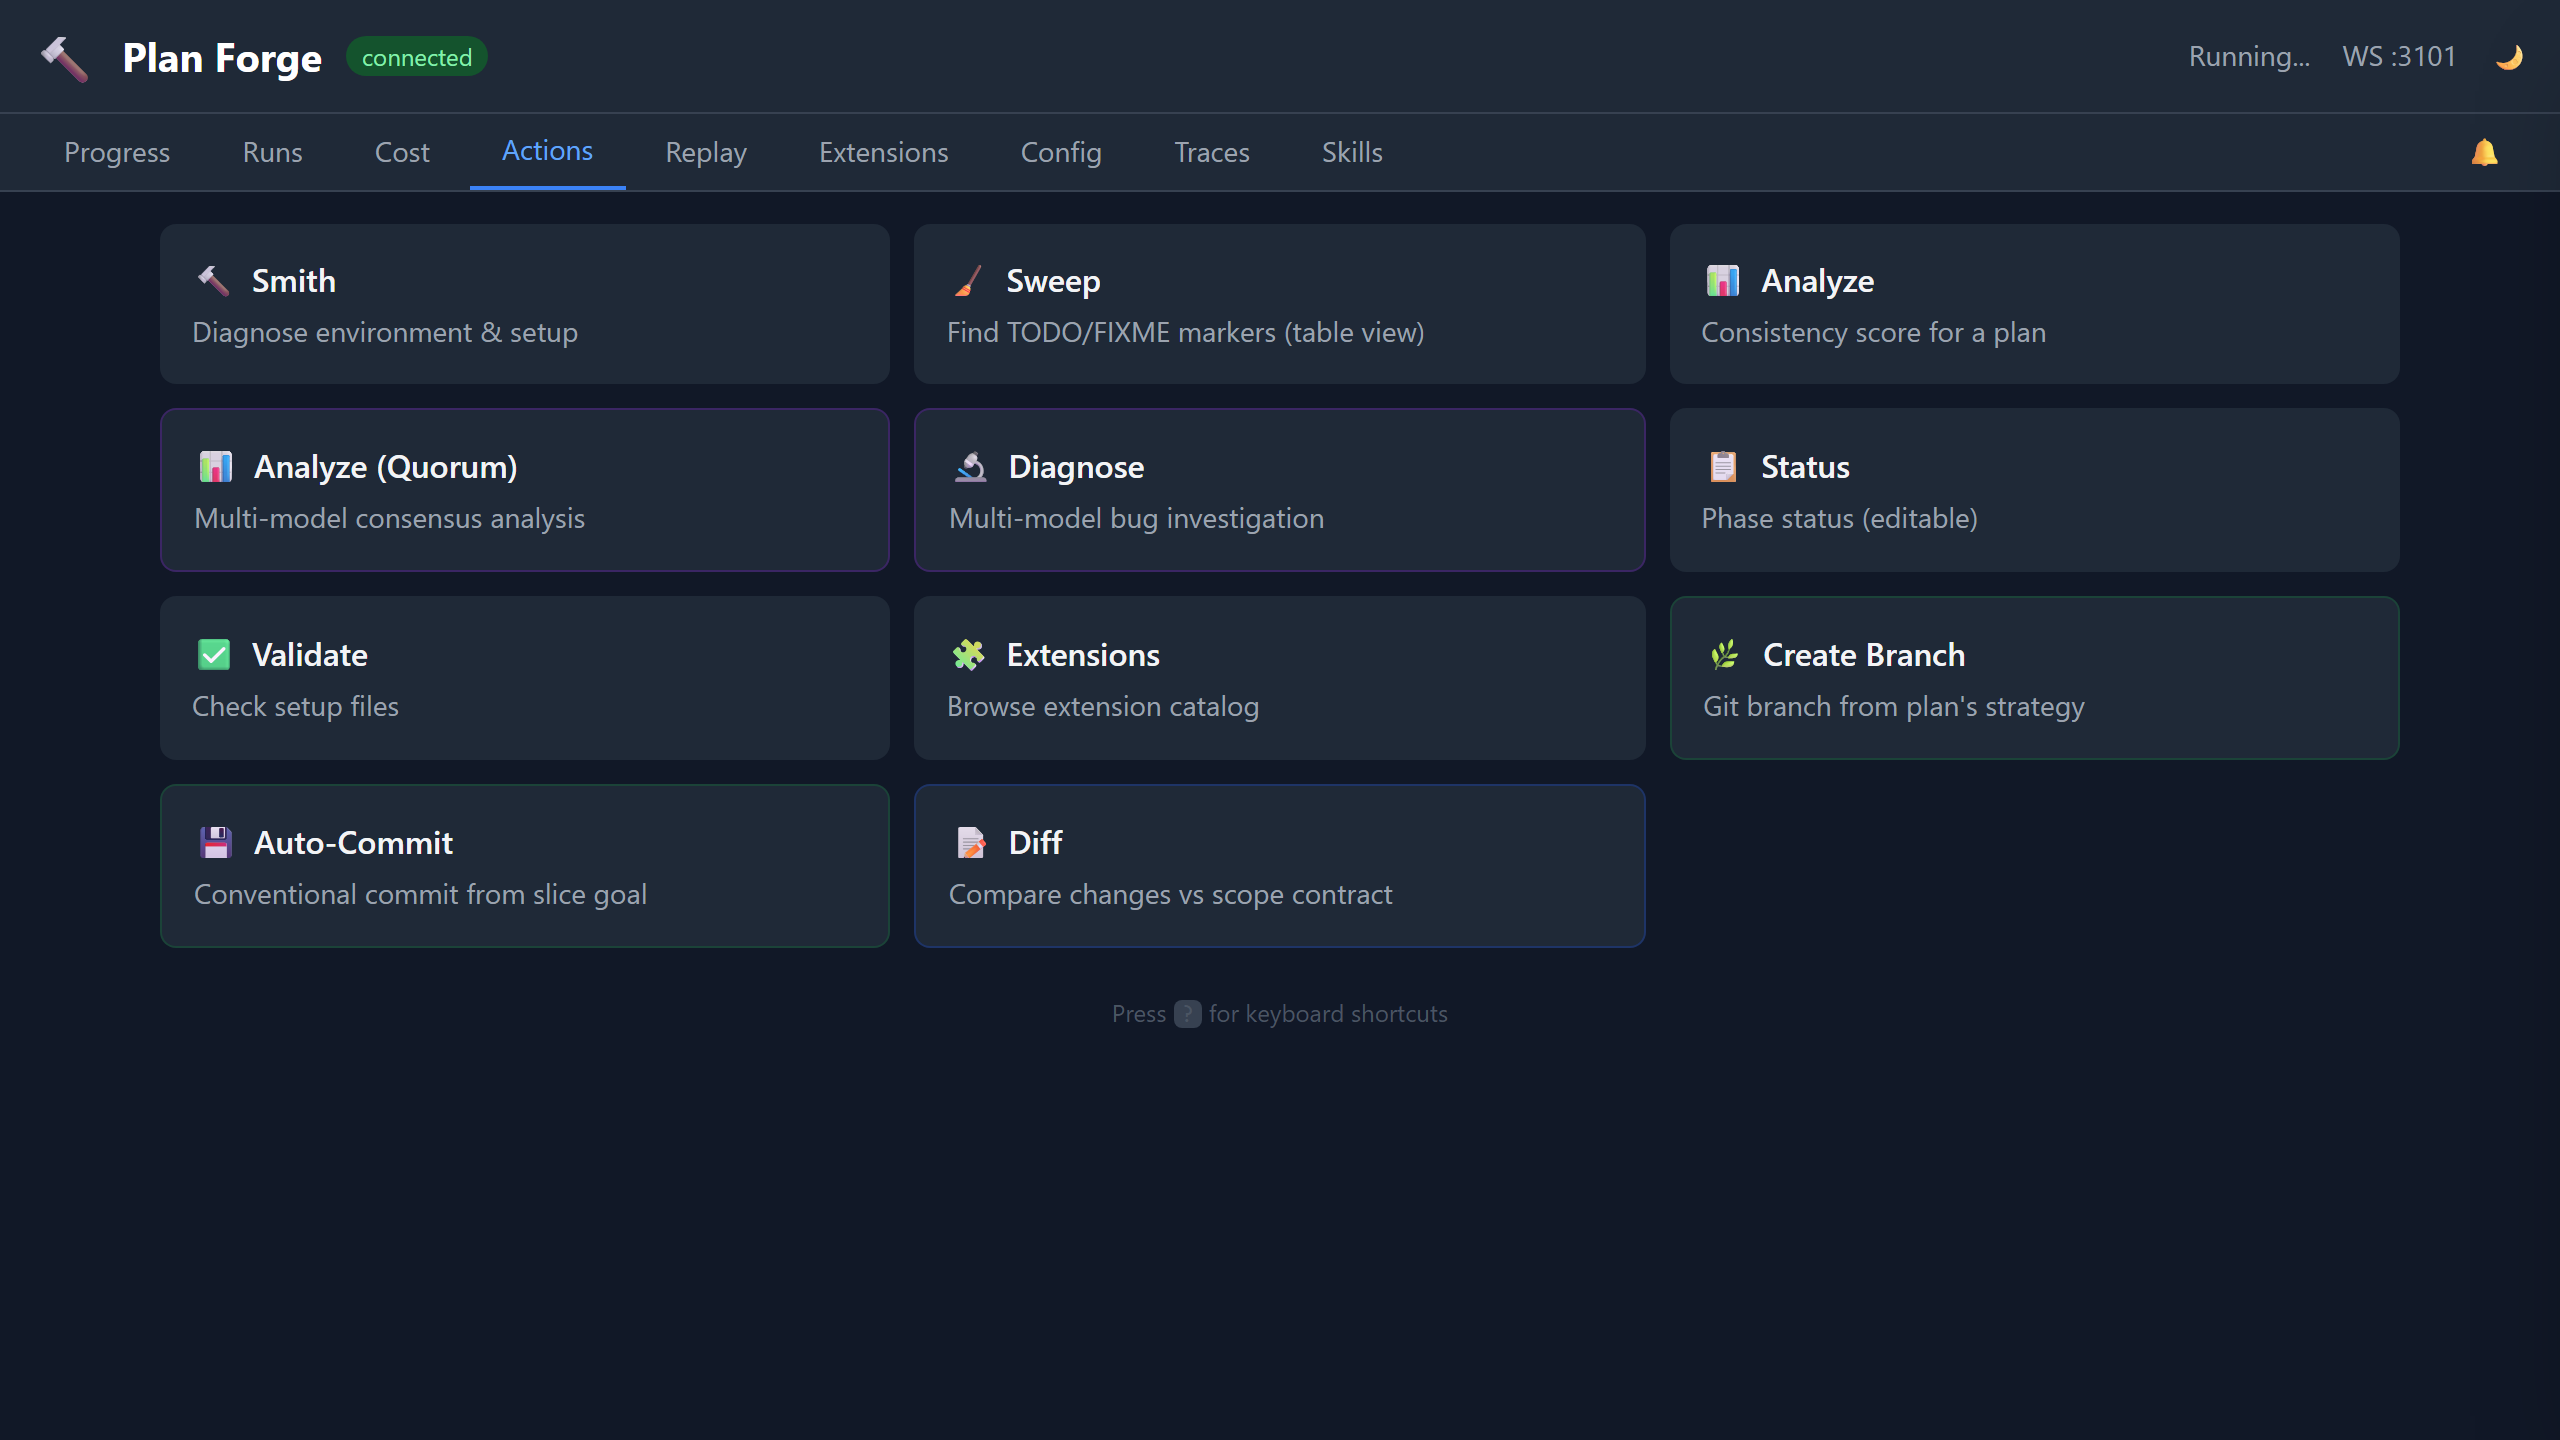
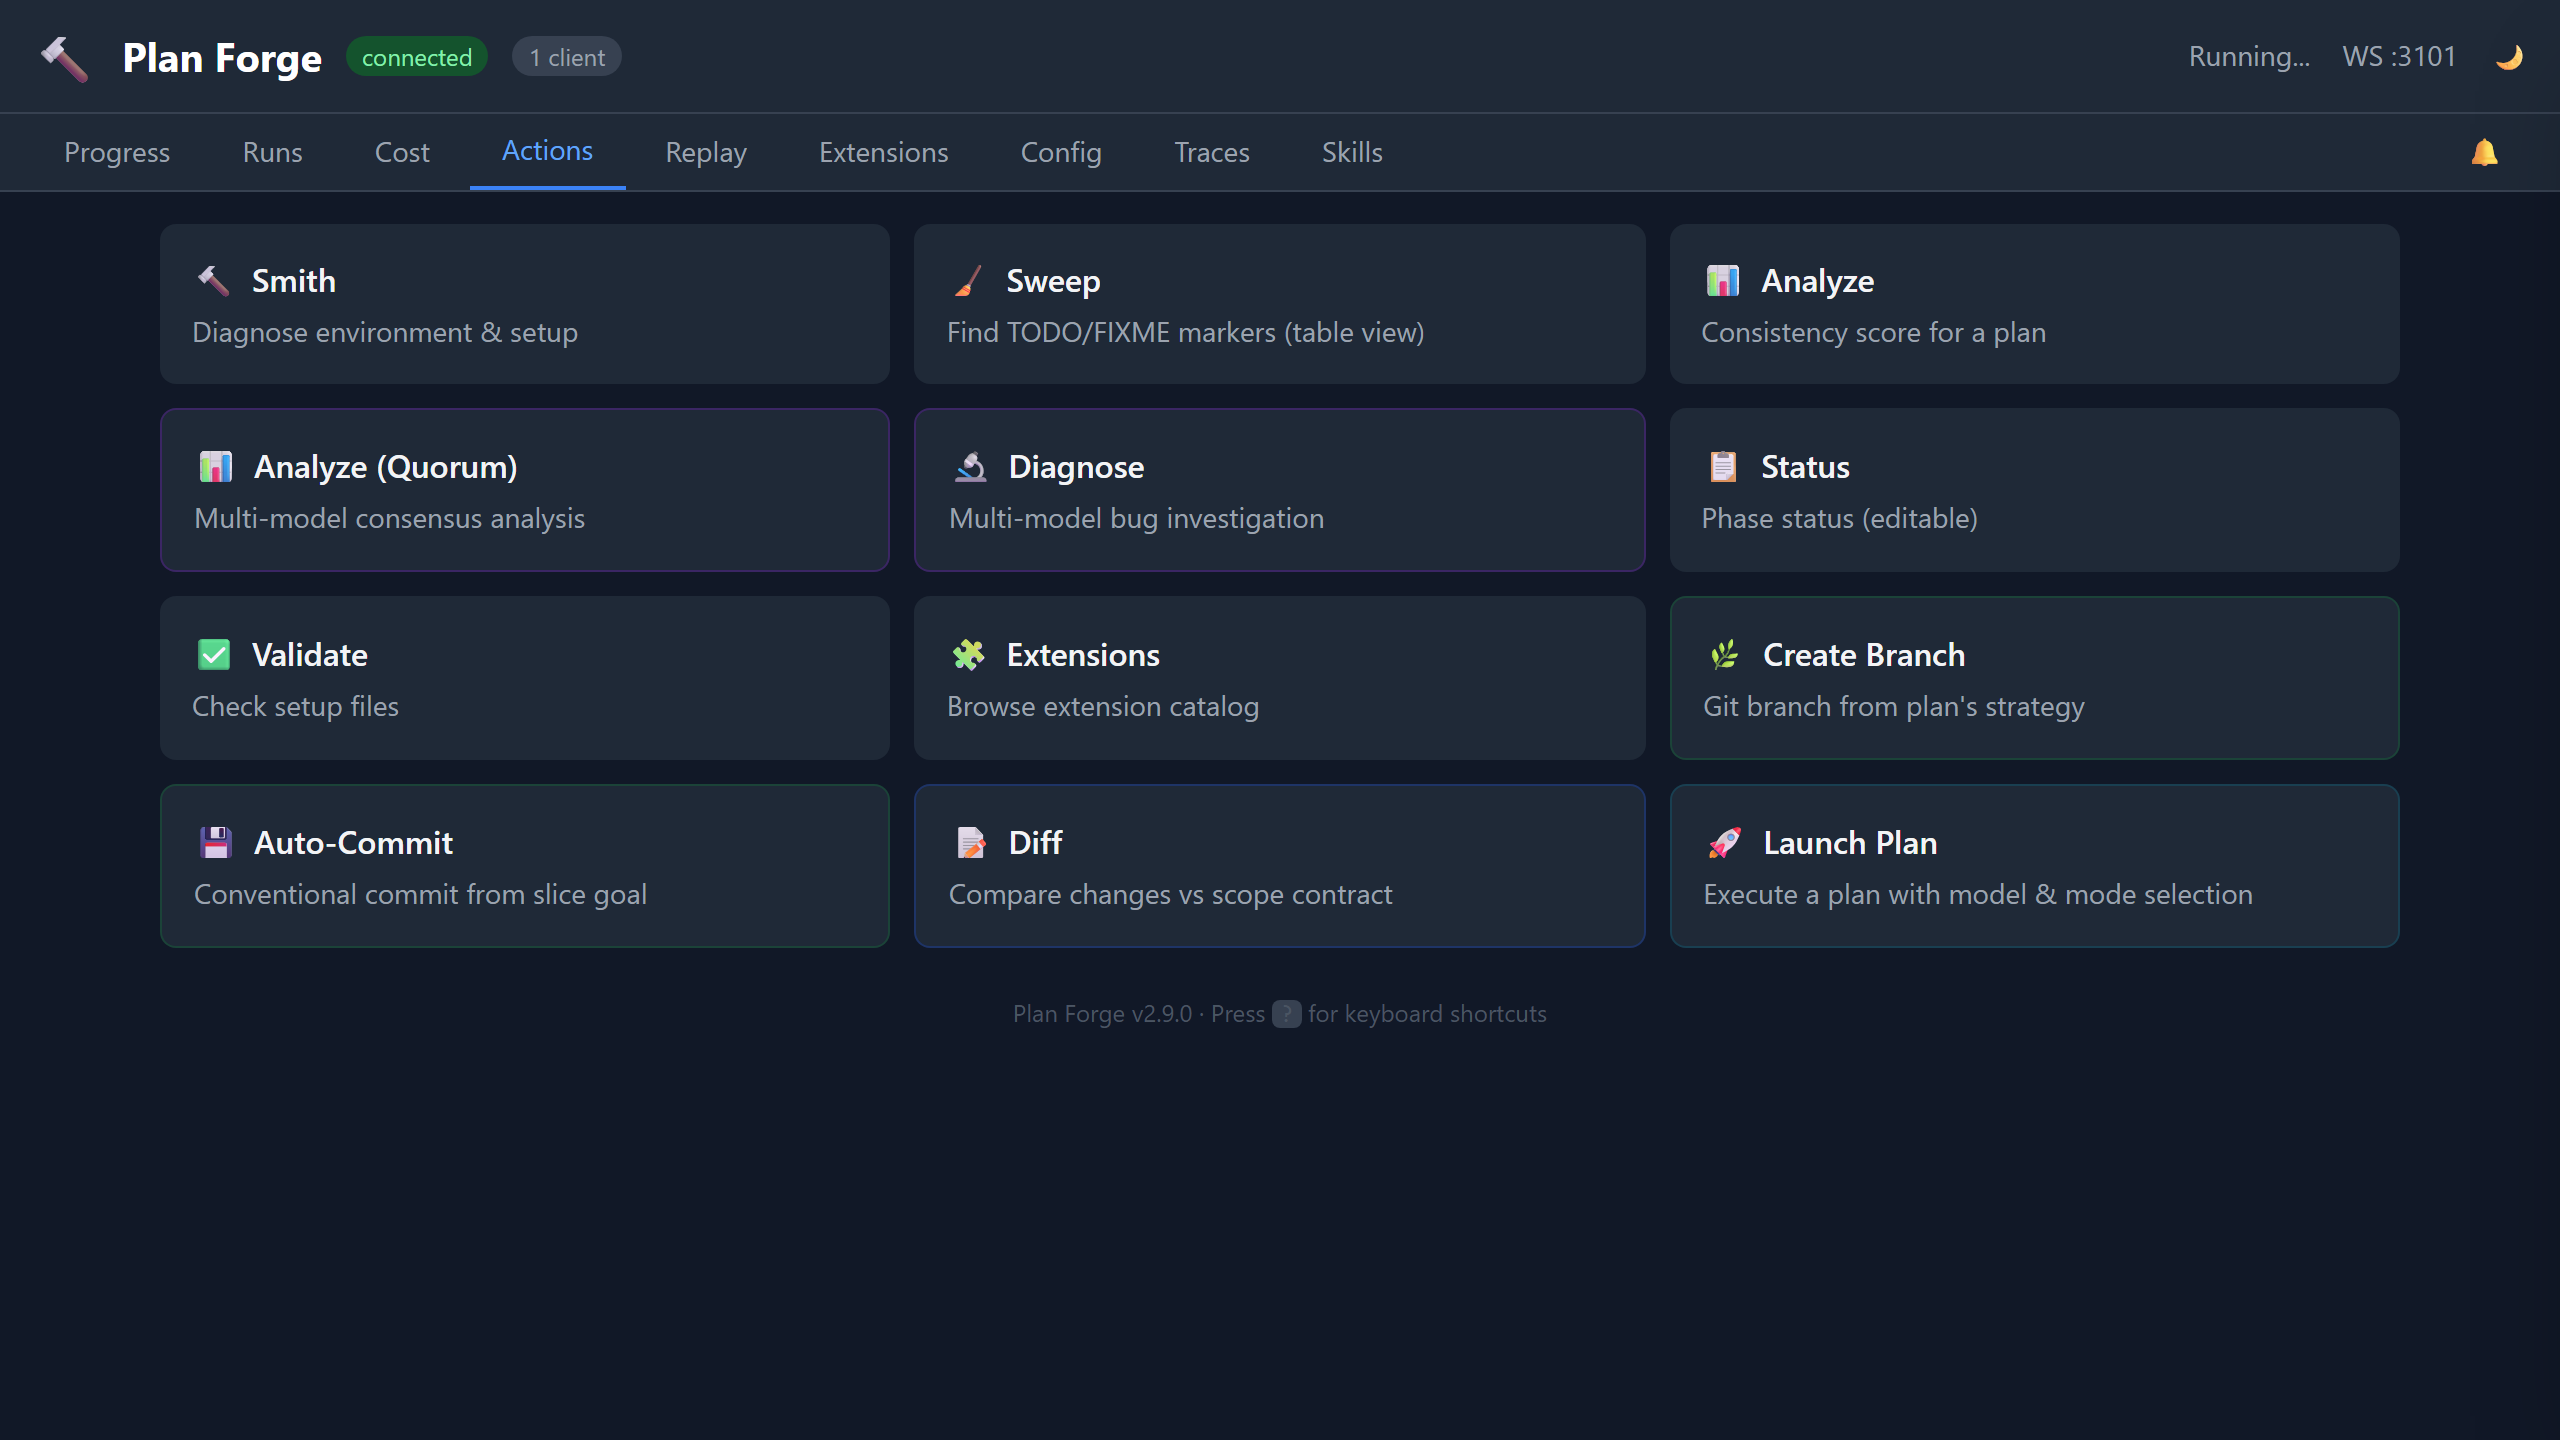
docs(dashboard): re-capture 9 screenshots with v2.9 features, fix hub client badge rendering

Changed region(s): [[0.6562, 0.5625, 0.875, 0.625], [0.4062, 0.6875, 0.5938, 0.7188], [0.1875, 0.0, 0.25, 0.0625]]

diff --git a/pforge-mcp/dashboard/app.js b/pforge-mcp/dashboard/app.js
@@ -1959,7 +1959,8 @@ async function pollHubClients() {
     const el = document.getElementById("hub-clients");
     if (!el) return;
     if (info.running) {
-      const count = info.clients || 0;
+      const clients = info.clients || [];
+      const count = Array.isArray(clients) ? clients.length : (typeof clients === "number" ? clients : 0);
       el.textContent = `${count} client${count !== 1 ? "s" : ""}`;
       el.classList.remove("hidden");
     } else {
